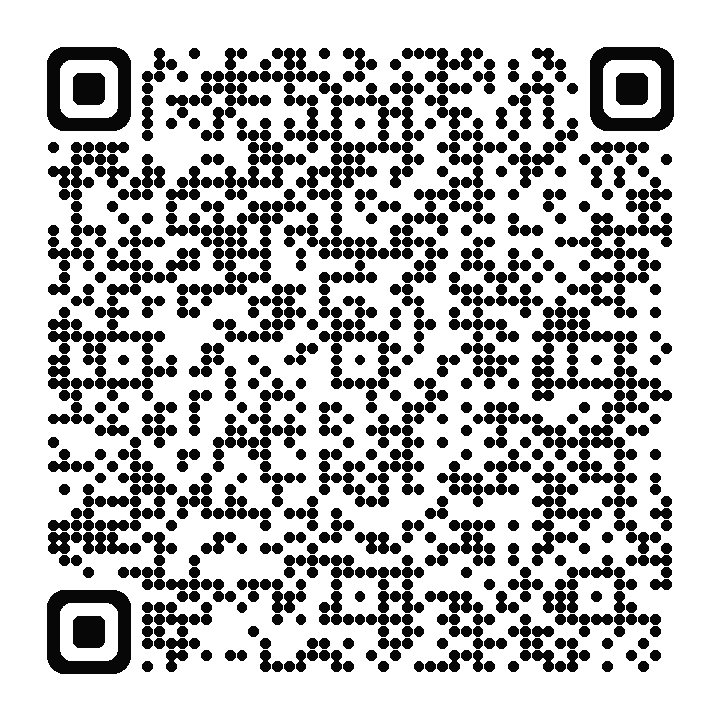
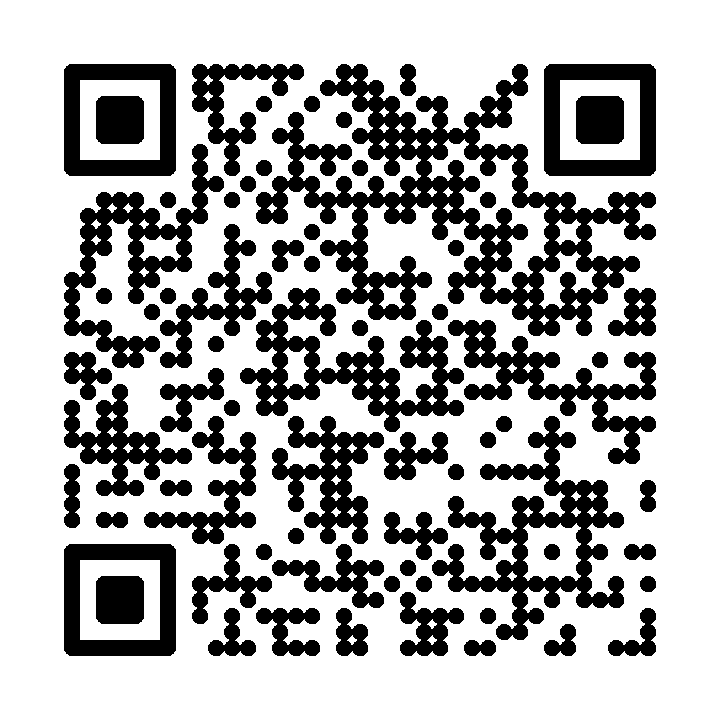
feat: track app download redirects (#55)

diff --git a/tests/download-tracking.test.js b/tests/download-tracking.test.js
@@ -1,0 +1,70 @@
+import assert from "node:assert/strict";
+import { existsSync, readFileSync } from "node:fs";
+import test from "node:test";
+
+const root = new URL("../", import.meta.url);
+const landing = readFileSync(new URL("index.html", root), "utf8");
+const buildScript = readFileSync(new URL("scripts/build.mjs", root), "utf8");
+const redirectScriptUrl = new URL("go/redirect.js", root);
+const iosPageUrl = new URL("go/ios/index.html", root);
+const androidPageUrl = new URL("go/android/index.html", root);
+const qrGeneratorUrl = new URL("scripts/generate-download-qrs.py", root);
+
+test("download buttons and clickable QR images share platform redirect routes", () => {
+  const download = landing.match(
+    /<section\b[^>]*\bid="download"[^>]*>([\s\S]*?)<\/section>/,
+  )?.[1];
+
+  assert.ok(download);
+  assert.equal((download.match(/href="\/go\/ios\/"/g) ?? []).length, 2);
+  assert.equal((download.match(/href="\/go\/android\/"/g) ?? []).length, 2);
+  assert.doesNotMatch(download, /href="[^"?]+\?(?:source|yqrid|utm_)=/);
+  assert.doesNotMatch(
+    download,
+    /href="https:\/\/testflight\.apple\.com|href="https:\/\/hubthe\.team/,
+  );
+});
+
+test("redirect pages send one platform goal and always continue to download", () => {
+  for (const pageUrl of [iosPageUrl, androidPageUrl]) {
+    assert.ok(existsSync(pageUrl), `${pageUrl.pathname} should exist`);
+  }
+  assert.ok(existsSync(redirectScriptUrl), "go/redirect.js should exist");
+
+  const iosPage = readFileSync(iosPageUrl, "utf8");
+  const androidPage = readFileSync(androidPageUrl, "utf8");
+  const redirectScript = readFileSync(redirectScriptUrl, "utf8");
+
+  assert.match(iosPage, /data-goal="download_ios"/);
+  assert.match(
+    iosPage,
+    /data-destination="https:\/\/testflight\.apple\.com\/join\/KCJxFcV1"/,
+  );
+  assert.match(androidPage, /data-goal="download_android"/);
+  assert.match(androidPage, /data-destination="\/download\/predix-health-app\.apk"/);
+
+  for (const page of [iosPage, androidPage]) {
+    assert.match(page, /<meta name="robots" content="noindex, nofollow" \/>/);
+    assert.match(page, /<script defer src="\.\.\/redirect\.js"><\/script>/);
+    assert.match(page, /<noscript>[\s\S]*?http-equiv="refresh"/);
+  }
+
+  assert.match(redirectScript, /112104449/);
+  assert.match(redirectScript, /ym\(112104449, "reachGoal", goal, \{\}, redirect\)/);
+  assert.match(redirectScript, /window\.setTimeout\(redirect, 1200\)/);
+  assert.match(redirectScript, /window\.location\.replace\(destination\)/);
+  assert.match(redirectScript, /https:\/\/mc\.yandex\.ru\/metrika\/tag\.js\?id=112104449/);
+});
+
+test("ordinary build copies redirect pages and QR generator uses temporary domain", () => {
+  assert.match(
+    buildScript,
+    /await cp\(new URL\("\.\.\/go\/", import\.meta\.url\), new URL\("go\/", outputDirectory\), \{[\s\S]*?recursive: true,[\s\S]*?\}\);/,
+  );
+  assert.ok(existsSync(qrGeneratorUrl), "QR generator should exist");
+
+  const generator = readFileSync(qrGeneratorUrl, "utf8");
+  assert.match(generator, /https:\/\/predix-health\.ru\/go\/ios\//);
+  assert.match(generator, /https:\/\/predix-health\.ru\/go\/android\//);
+  assert.doesNotMatch(generator, /source=|yqrid=|utm_/);
+});

diff --git a/go/styles.css b/go/styles.css
@@ -1,0 +1,88 @@
+@font-face {
+  font-family: "Manrope";
+  src: url("../public/fonts/manrope/manrope-cyrillic-variable.woff2") format("woff2");
+  font-weight: 200 800;
+  font-style: normal;
+  font-display: swap;
+}
+
+:root {
+  font-family: "Manrope", system-ui, sans-serif;
+  color: #35333f;
+  background: #f4fbfa;
+}
+
+* {
+  box-sizing: border-box;
+}
+
+body {
+  min-height: 100vh;
+  min-height: 100svh;
+  margin: 0;
+  display: grid;
+  place-items: center;
+  padding: 24px;
+  background:
+    radial-gradient(circle at 22% 18%, rgba(127, 211, 205, 0.34), transparent 38%),
+    radial-gradient(circle at 78% 82%, rgba(18, 104, 107, 0.15), transparent 34%),
+    #f4fbfa;
+}
+
+main {
+  width: min(100%, 520px);
+  padding: clamp(32px, 7vw, 56px);
+  border: 1px solid rgba(18, 104, 107, 0.18);
+  border-radius: 28px;
+  background: rgba(255, 255, 255, 0.9);
+  box-shadow: 0 28px 72px rgba(30, 94, 95, 0.16);
+  text-align: center;
+}
+
+.mark {
+  display: inline-grid;
+  width: 56px;
+  height: 56px;
+  place-items: center;
+  border-radius: 18px;
+  background: #12686b;
+  color: #ffffff;
+  font-size: 1.4rem;
+  font-weight: 800;
+}
+
+h1 {
+  margin: 24px 0 10px;
+  font-size: clamp(1.65rem, 5vw, 2.35rem);
+  line-height: 1.08;
+}
+
+p {
+  margin: 0;
+  color: #5f6d70;
+  line-height: 1.6;
+}
+
+a {
+  display: inline-flex;
+  min-height: 44px;
+  margin-top: 24px;
+  align-items: center;
+  justify-content: center;
+  padding: 10px 18px;
+  border: 1px solid #12686b;
+  border-radius: 999px;
+  color: #12686b;
+  font-weight: 700;
+  text-decoration: none;
+}
+
+a:hover,
+a:focus-visible {
+  background: rgba(127, 211, 205, 0.16);
+}
+
+a:focus-visible {
+  outline: 3px solid rgba(127, 211, 205, 0.45);
+  outline-offset: 3px;
+}

diff --git a/tests/landing.test.js b/tests/landing.test.js
@@ -737,17 +737,17 @@ test("download route follows privacy with two real QR links", () => {
   assert.equal((download.match(/class="download-option__link"/g) ?? []).length, 2);
   assert.match(
     download,
-    /class="download-option__link"\s+href="https:\/\/testflight\.apple\.com\/join\/KCJxFcV1"[^>]*>\s*Скачать iOS\s*<\/a>/,
+    /class="download-option__link"\s+href="\/go\/ios\/"[^>]*>\s*Скачать iOS\s*<\/a>/,
   );
   assert.match(
     download,
-    /class="download-option__link"\s+href="https:\/\/hubthe\.team\/shared\/docs\/bcaa672e-9fd8-43a3-91e2-abe3189a88ae"[^>]*>\s*Скачать Android\s*<\/a>/,
+    /class="download-option__link"\s+href="\/go\/android\/"[^>]*>\s*Скачать Android\s*<\/a>/,
   );
   assert.doesNotMatch(download, /Ссылка появится позже/);
-  assert.match(download, /href="https:\/\/testflight\.apple\.com\/join\/KCJxFcV1"/);
+  assert.match(download, /href="\/go\/ios\/"/);
   assert.match(download, /src="\.\/public\/download\/ios-testflight-qr\.png"/);
   assert.match(download, /src="\.\/public\/download\/ios-testflight-qr\.png"[\s\S]*?width="160"[\s\S]*?height="160"/);
-  assert.match(download, /href="https:\/\/hubthe\.team\/shared\/docs\/bcaa672e-9fd8-43a3-91e2-abe3189a88ae"/);
+  assert.match(download, /href="\/go\/android\/"/);
   assert.doesNotMatch(download, /predix-health-app-1\.16\.apk/);
   assert.match(download, /src="\.\/public\/download\/android-apk-qr\.png"/);
   assert.match(download, /src="\.\/public\/download\/android-apk-qr\.png"[\s\S]*?width="160"[\s\S]*?height="160"/);

diff --git a/index.html b/index.html
@@ -516,7 +516,7 @@
             <figure class="download-option">
               <a
                 class="download-option__code"
-                href="https://testflight.apple.com/join/KCJxFcV1"
+                href="/go/ios/"
                 aria-label="Открыть ссылку для iOS"
               >
                 <img
@@ -529,7 +529,7 @@
               <figcaption>
                 <a
                   class="download-option__link"
-                  href="https://testflight.apple.com/join/KCJxFcV1"
+                  href="/go/ios/"
                 >
                   Скачать iOS
                 </a>
@@ -539,7 +539,7 @@
             <figure class="download-option">
               <a
                 class="download-option__code"
-                href="https://hubthe.team/shared/docs/bcaa672e-9fd8-43a3-91e2-abe3189a88ae"
+                href="/go/android/"
                 aria-label="Открыть ссылку для Android"
               >
                 <img
@@ -552,7 +552,7 @@
               <figcaption>
                 <a
                   class="download-option__link"
-                  href="https://hubthe.team/shared/docs/bcaa672e-9fd8-43a3-91e2-abe3189a88ae"
+                  href="/go/android/"
                 >
                   Скачать Android
                 </a>

diff --git a/go/redirect.js b/go/redirect.js
@@ -1,0 +1,48 @@
+const { goal, destination } = document.documentElement.dataset;
+const fallbackLink = document.querySelector("[data-fallback-link]");
+let redirected = false;
+
+function redirect() {
+  if (redirected) return;
+  redirected = true;
+  window.location.replace(destination);
+}
+
+fallbackLink.href = destination;
+window.setTimeout(redirect, 1200);
+
+(function (m, e, t, r, i, k, a) {
+  m[i] =
+    m[i] ||
+    function () {
+      (m[i].a = m[i].a || []).push(arguments);
+    };
+  m[i].l = 1 * new Date();
+  for (let j = 0; j < document.scripts.length; j += 1) {
+    if (document.scripts[j].src === r) return;
+  }
+  k = e.createElement(t);
+  a = e.getElementsByTagName(t)[0];
+  k.async = 1;
+  k.src = r;
+  a.parentNode.insertBefore(k, a);
+})(
+  window,
+  document,
+  "script",
+  "https://mc.yandex.ru/metrika/tag.js?id=112104449",
+  "ym",
+);
+
+ym(112104449, "init", {
+  ssr: true,
+  webvisor: true,
+  clickmap: true,
+  ecommerce: "dataLayer",
+  referrer: document.referrer,
+  url: window.location.href,
+  accurateTrackBounce: true,
+  trackLinks: true,
+});
+
+ym(112104449, "reachGoal", goal, {}, redirect);

diff --git a/go/ios/index.html b/go/ios/index.html
@@ -1,0 +1,32 @@
+<!doctype html>
+<html
+  lang="ru"
+  data-goal="download_ios"
+  data-destination="https://testflight.apple.com/join/KCJxFcV1"
+>
+  <head>
+    <meta charset="UTF-8" />
+    <meta name="viewport" content="width=device-width, initial-scale=1.0" />
+    <meta name="robots" content="noindex, nofollow" />
+    <meta name="theme-color" content="#f4fbfa" />
+    <title>Переход к загрузке iOS</title>
+    <link rel="stylesheet" href="../styles.css" />
+    <script defer src="../redirect.js"></script>
+    <noscript>
+      <meta
+        http-equiv="refresh"
+        content="0;url=https://testflight.apple.com/join/KCJxFcV1"
+      />
+    </noscript>
+  </head>
+  <body>
+    <main>
+      <span class="mark" aria-hidden="true">iOS</span>
+      <h1>Переходим к загрузке</h1>
+      <p>Сейчас откроется TestFlight</p>
+      <a data-fallback-link href="https://testflight.apple.com/join/KCJxFcV1">
+        Продолжить вручную
+      </a>
+    </main>
+  </body>
+</html>

diff --git a/go/android/index.html b/go/android/index.html
@@ -1,0 +1,32 @@
+<!doctype html>
+<html
+  lang="ru"
+  data-goal="download_android"
+  data-destination="/download/predix-health-app.apk"
+>
+  <head>
+    <meta charset="UTF-8" />
+    <meta name="viewport" content="width=device-width, initial-scale=1.0" />
+    <meta name="robots" content="noindex, nofollow" />
+    <meta name="theme-color" content="#f4fbfa" />
+    <title>Переход к загрузке Android</title>
+    <link rel="stylesheet" href="../styles.css" />
+    <script defer src="../redirect.js"></script>
+    <noscript>
+      <meta
+        http-equiv="refresh"
+        content="0;url=/download/predix-health-app.apk"
+      />
+    </noscript>
+  </head>
+  <body>
+    <main>
+      <span class="mark" aria-hidden="true">A</span>
+      <h1>Переходим к загрузке</h1>
+      <p>Сейчас начнётся загрузка приложения</p>
+      <a data-fallback-link href="/download/predix-health-app.apk">
+        Продолжить вручную
+      </a>
+    </main>
+  </body>
+</html>

diff --git a/tests/portal-build.test.js b/tests/portal-build.test.js
@@ -100,8 +100,8 @@ test("portal inline build optimizes screenshot assets before inlining", async ()
   );
   assert.match(asciiPortalHtml, /href="doc\.pdf"[^>]*target="_blank"[^>]*rel="noopener noreferrer"[^>]*style="color: #12686b !important; text-decoration-color: currentColor !important;"/);
   assert.doesNotMatch(asciiPortalHtml, /data:application\/(?:octet-stream|pdf);base64/);
-  assert.match(asciiPortalHtml, /href="https:\/\/testflight\.apple\.com\/join\/KCJxFcV1"/);
-  assert.match(asciiPortalHtml, /href="https:\/\/hubthe\.team\/shared\/docs\/bcaa672e-9fd8-43a3-91e2-abe3189a88ae"/);
+  assert.match(asciiPortalHtml, /href="\/go\/ios\/"/);
+  assert.match(asciiPortalHtml, /href="\/go\/android\/"/);
   assert.equal((asciiPortalHtml.match(/class="download-option__link"/g) ?? []).length, 0);
   assert.match(portalHtml, /<strong>iOS<\/strong>/);
   assert.match(portalHtml, /<strong>Android<\/strong>/);

diff --git a/scripts/generate-download-qrs.py b/scripts/generate-download-qrs.py
@@ -1,0 +1,47 @@
+#!/usr/bin/env uv run
+# /// script
+# dependencies = ["pillow", "qrcode[pil]"]
+# ///
+from pathlib import Path
+
+import qrcode
+from PIL import Image
+from qrcode.constants import ERROR_CORRECT_H
+from qrcode.image.styledpil import StyledPilImage
+from qrcode.image.styles.moduledrawers.pil import CircleModuleDrawer, RoundedModuleDrawer
+
+ROOT = Path(__file__).resolve().parents[1]
+OUTPUT = ROOT / "public" / "download"
+SIZE = (720, 720)
+
+DESTINATIONS = {
+    "ios-testflight-qr.png": "https://predix-health.ru/go/ios/",
+    "android-apk-qr.png": "https://predix-health.ru/go/android/",
+}
+
+
+def generate_qr(destination: str, output_path: Path) -> None:
+    qr = qrcode.QRCode(
+        version=None,
+        error_correction=ERROR_CORRECT_H,
+        box_size=16,
+        border=4,
+    )
+    qr.add_data(destination)
+    qr.make(fit=True)
+
+    image = qr.make_image(
+        image_factory=StyledPilImage,
+        module_drawer=CircleModuleDrawer(),
+        eye_drawer=RoundedModuleDrawer(radius_ratio=1),
+    ).convert("RGB")
+    image = image.resize(SIZE, Image.Resampling.LANCZOS)
+    image = image.convert("L").point(lambda value: 255 if value > 128 else 0, mode="1")
+    image.save(output_path, optimize=True)
+
+
+OUTPUT.mkdir(parents=True, exist_ok=True)
+for filename, destination in DESTINATIONS.items():
+    path = OUTPUT / filename
+    generate_qr(destination, path)
+    print(f"{path}: {destination}")
